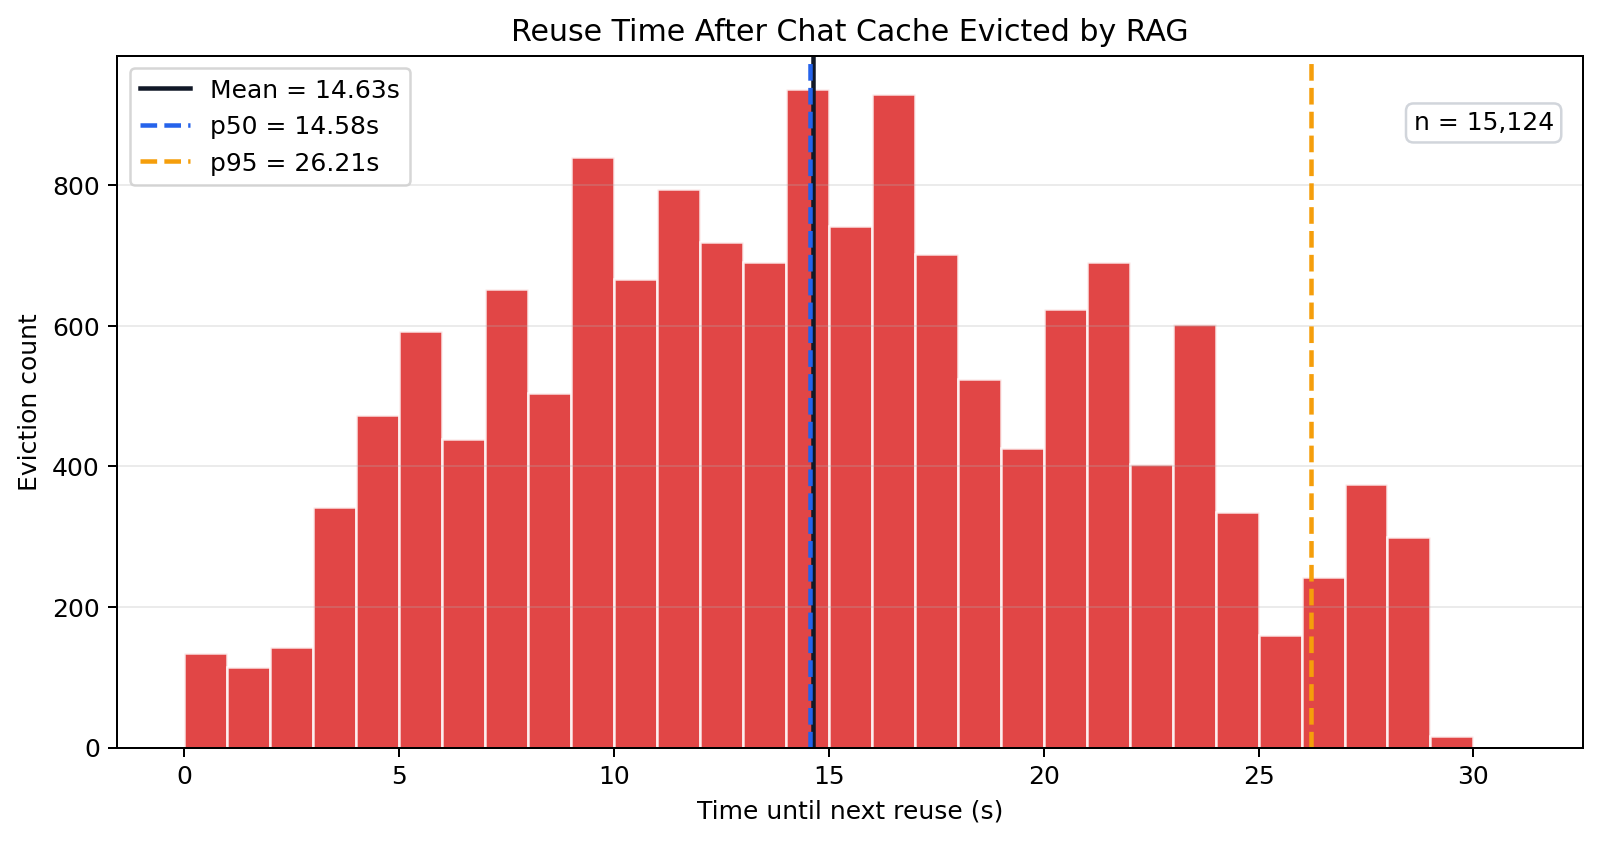
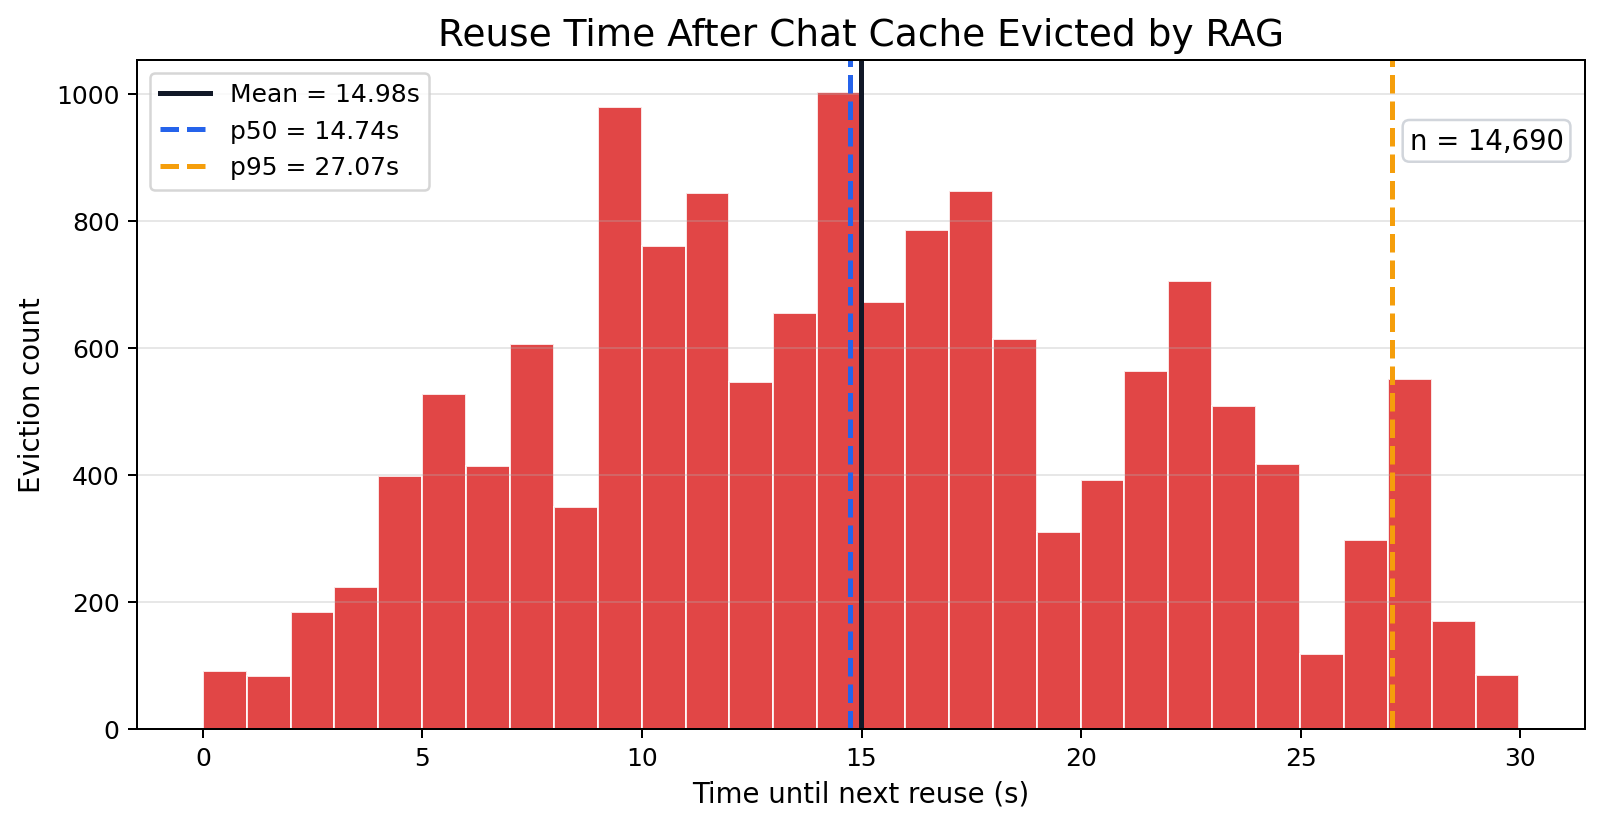
docs: eviction 계측 로직 수정 후 변경 내용 업데이트

diff --git a/hypothesis_validation/case1_validation/analysis_results/CASE1_ANALYSIS.md b/hypothesis_validation/case1_validation/analysis_results/CASE1_ANALYSIS.md
@@ -124,26 +124,29 @@ Chat APC ON 기준으로 single과 mixed를 비교하면 다음과 같다.
 |---|---|
 | Mixed APC ON | `eviction_logs/mixed_apc_on.jsonl` |
 
-이 log의 전체 eviction은 `80,858`건이다. 네 가지 eviction 방향을 한 번에 보면 다음과 같다.
+이 log의 전체 eviction은 `90,854`건이다. 네 가지 eviction 방향을 한 번에 보면 다음과 같다.
 
 | Case | Count | Share of total | Reused later | Reused ratio | 의미 |
 |---|---:|---:|---:|---:|---|
-| `chat <- chat` | 20,851 | 25.8% | 18,479 | 88.6% | Chat 요청이 Chat cached block을 밀어냄 |
-| `chat <- rag` | 17,663 | 21.8% | 15,124 | 85.6% | RAG 요청이 Chat cached block을 밀어냄 |
-| `rag <- chat` | 18,987 | 23.5% | 0 | 0.0% | Chat 요청이 RAG cached block을 밀어냄 |
-| `rag <- rag` | 23,357 | 28.9% | 0 | 0.0% | RAG 요청이 RAG cached block을 밀어냄 |
+| `chat <- chat` | 25,568 | 28.1% | 18,905 | 73.9% | Chat 요청이 Chat cached block을 밀어냄 |
+| `chat <- rag` | 18,584 | 20.5% | 14,690 | 79.0% | RAG 요청이 Chat cached block을 밀어냄 |
+| `rag <- chat` | 22,047 | 24.3% | 0 | 0.0% | Chat 요청이 RAG cached block을 밀어냄 |
+| `rag <- rag` | 24,655 | 27.1% | 6 | 0.0% | RAG 요청이 RAG cached block을 밀어냄 |
 
 ![Case 1 Eviction Breakdown](case1_analysis_image4_eviction_breakdown.png)
 
 *Figure 4. 전체 eviction 중 각 eviction 방향이 차지하는 비율과, 각 방향별 `reused_later` 비율을 비교한다.*
 
-Chat block eviction은 총 `38,514`건이고, 그중 `17,663`건이 `chat <- rag`이다. 즉 Chat eviction의 `45.9%`가 RAG 요청에 의해 발생했다. 더 중요한 점은 `chat <- rag` eviction 중 `85.6%`가 나중에 다시 재사용되었다는 것이다. 이 block들은 RAG가 밀어내지 않았다면 다음 Chat turn에서 hit 되었을 useful cache였다고 해석할 수 있다.
+Chat block eviction은 총 `44,152`건이고, 그중 `18,584`건이 `chat <- rag`이다. 즉 Chat eviction의 `42.1%`가 RAG 요청에 의해 발생했다. 더 중요한 점은 `chat <- rag` eviction 중 `79.0%`가 나중에 다시 재사용되었다는 것이다. 이 block들은 RAG가 밀어내지 않았다면 다음 Chat turn에서 hit 되었을 useful cache였다고 해석할 수 있다.
 
-반대로 `rag <- chat`은 `18,987`건 발생했지만, 이 run에서는 `reused_later=true`가 관측되지 않았다. 즉 cross-workload eviction이 양방향으로 발생하더라도, 모든 eviction이 같은 비용을 갖는 것은 아니다. 현재 결과에서는 **RAG가 Chat을 밀어낸 경우가 useful eviction으로 이어지는 비율이 높고**, Chat이 RAG를 밀어낸 경우는 이후 재사용 손실로 이어진 증거가 없다.
+반대로 `rag <- chat`은 `22,047`건 발생했지만, 이 run에서는 `reused_later=true`가 관측되지 않았다. `rag <- rag`에서도 later reuse는 `6`건으로 매우 작다. 즉 cross-workload eviction이 양방향으로 발생하더라도, 모든 eviction이 같은 비용을 갖는 것은 아니다. 현재 결과에서는 **RAG가 Chat을 밀어낸 경우가 useful eviction으로 이어지는 비율이 높고**, Chat이 RAG를 밀어낸 경우는 이후 재사용 손실로 이어진 증거가 없다.
 
 ![Reuse Time After Chat Cache Evicted by RAG](case1_analysis_image5_chat_rag_reuse_time.png)
 
-*Figure 5. `chat <- rag`의 `time_until_next_reuse`는 mean `14.63s`, p50 `14.58s`, p95 `26.21s`다. 이는 evict된 Chat block이 수십 초 안에 다시 필요해지는 경우가 많다는 뜻이며, `HYPOTHESIS.md`의 delayed reuse gap 설명과도 맞다.*
+*Figure 5. `chat <- rag`의 `time_until_next_reuse`는 mean `14.98s`, p50 `14.74s`, p95 `27.07s`다. 이는 evict된 Chat block이 수십 초 안에 다시 필요해지는 경우가 많다는 뜻이며, `HYPOTHESIS.md`의 delayed reuse gap 설명과도 맞다.*
+
+> [!NOTE]
+> `time_until_next_reuse`는 evict된 Chat cache가 다시 필요해진 시점까지의 시간이다. Chat workload에서는 이를 다음 turn이 도착하기까지의 think-time gap과 같은 시간축에서 해석할 수 있다. 즉 Figure 5는 RAG가 밀어낸 Chat cache가 곧 다음 turn에서 필요해질 useful cache였다는 해석을 보강한다.
 
 따라서 현재 Case 1 결과는 단순히 "Chat hit rate가 mixed에서 낮아졌다"는 상관관계에 그치지 않는다. vLLM eviction log 기준으로도 RAG 요청이 Chat cached block을 직접 evict했고, 그중 다수가 이후 다시 필요해진 useful Chat block이었다.
 
